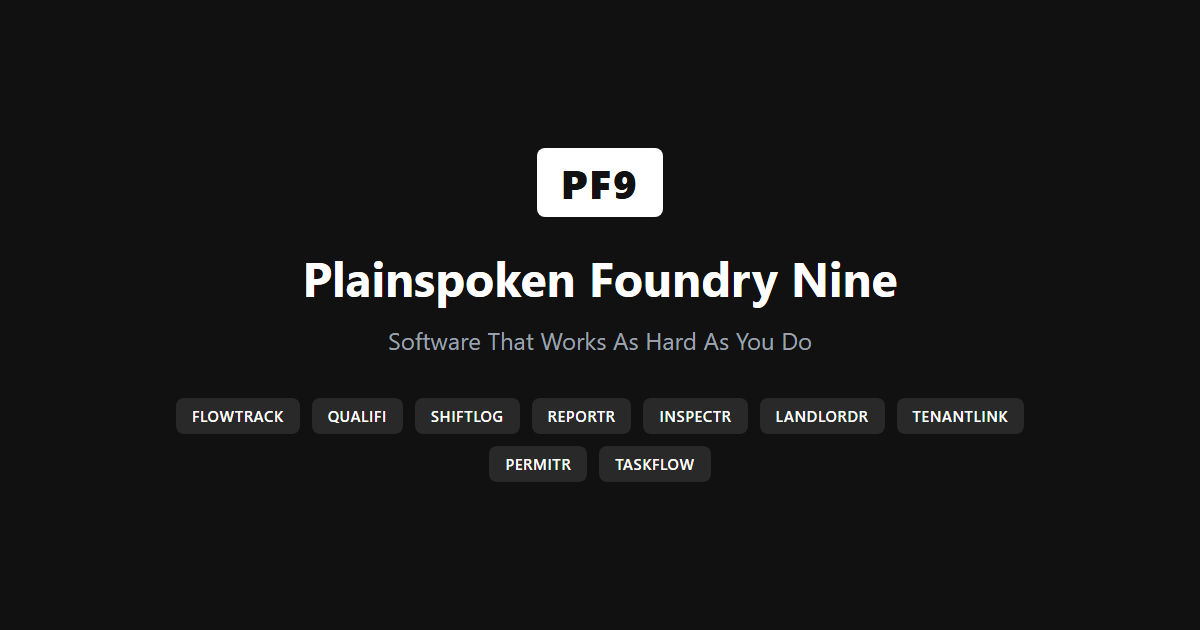
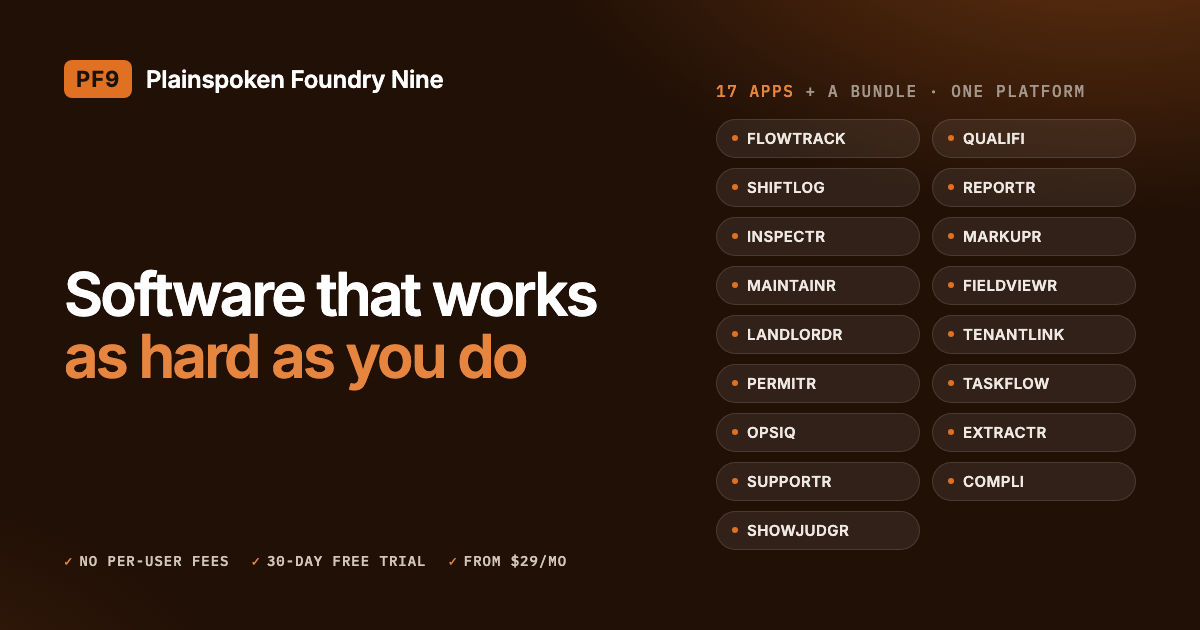
Link-share preview image: espresso/copper look, all 17 apps
og-image.png (what Slack, LinkedIn, Facebook, texts etc. show when the
store link is shared) was still the old black design listing 9 apps.
Rebuilt og-image.html in the store's brand — espresso with copper glow,
PF9 mark, the store's own headline and trust line, and all 17 apps — and
re-rendered og-image.png at 1200x630. Dropped the PostHog snippet from the
template (it is a screenshot source, not a page anyone visits).

og:image / twitter:image on all 32 tags now point at og-image.png?v=20261115
so link-preview caches fetch the new image; nothing else on those pages
changed (the JSON-LD logo URL is untouched). templates/ and store_api.py
untouched. tests/test_*.py all pass.

diff --git a/og-image.html b/og-image.html
@@ -1,92 +1,93 @@
-<!-- Screenshot this at 1200x630 to create og-image.png -->
+<!-- Screenshot this at 1200x630 to create og-image.png (the link-share preview).
+     2026-11-15: PF9 espresso/copper brand, all 17 apps. Wording is the store's own
+     headline and trust line from index.html — keep the app list in step with the store. -->
 <!DOCTYPE html>
 <html>
 <head>
 <meta charset="UTF-8">
+<link href="https://fonts.googleapis.com/css2?family=IBM+Plex+Mono:wght@500&family=Inter:wght@500;600;700&display=swap" rel="stylesheet">
 <style>
   * { margin: 0; padding: 0; box-sizing: border-box; }
   body {
     width: 1200px;
     height: 630px;
-    background: #111;
-    color: #fff;
-    font-family: system-ui, -apple-system, sans-serif;
-    display: flex;
-    align-items: center;
-    justify-content: center;
     overflow: hidden;
+    color: #fff;
+    font-family: Inter, system-ui, -apple-system, sans-serif;
+    background-color: #211006;
+    background-image:
+      radial-gradient(60rem 34rem at 92% -18%, rgba(224,113,34,.38), transparent 60%),
+      radial-gradient(40rem 26rem at -12% 118%, rgba(224,113,34,.16), transparent 60%);
+    display: grid;
+    grid-template-columns: 1fr 420px;
+    gap: 40px;
+    padding: 60px 64px;
   }
-  .container {
-    text-align: center;
-    padding: 2rem;
-  }
+  .left { display: flex; flex-direction: column; justify-content: space-between; }
+  .mark { display: flex; align-items: center; gap: 14px; }
   .badge {
-    display: inline-block;
-    background: #fff;
-    color: #111;
-    padding: 0.5rem 1.5rem;
-    border-radius: 8px;
-    font-weight: 800;
-    font-size: 2.5rem;
-    letter-spacing: 0.05em;
-    margin-bottom: 2rem;
+    background: #e07122; color: #1a120d;
+    font-weight: 700; font-size: 22px; letter-spacing: .04em;
+    padding: 6px 12px; border-radius: 8px;
   }
+  .name { font-size: 24px; font-weight: 600; letter-spacing: -.01em; }
   h1 {
-    font-size: 3rem;
-    font-weight: 700;
-    margin-bottom: 1rem;
-    line-height: 1.2;
+    font-size: 60px; font-weight: 600; line-height: 1.04; letter-spacing: -.045em; white-space: nowrap;
   }
-  p {
-    font-size: 1.5rem;
-    color: #9ca3af;
-    max-width: 800px;
-    margin: 0 auto 2.5rem;
-    line-height: 1.5;
+  h1 span { color: #e5853f; }
+  .trust {
+    font-family: "IBM Plex Mono", ui-monospace, monospace;
+    font-size: 14px; letter-spacing: .07em; text-transform: uppercase; color: #d1c6ba;
+    display: flex; gap: 22px; white-space: nowrap;
   }
-  .apps {
-    display: flex;
-    flex-wrap: wrap;
-    gap: 0.75rem;
-    justify-content: center;
-    max-width: 900px;
-    margin: 0 auto;
+  .trust b { color: #e5853f; font-weight: 500; margin-right: 6px; }
+  .right { display: flex; flex-direction: column; justify-content: center; }
+  .count {
+    font-family: "IBM Plex Mono", ui-monospace, monospace;
+    font-size: 16px; letter-spacing: .1em; text-transform: uppercase; color: #a3978b;
+    margin-bottom: 18px;
   }
+  .count b { color: #e5853f; font-weight: 500; }
+  .apps { display: grid; grid-template-columns: 1fr 1fr; gap: 10px 12px; }
   .app {
-    background: rgba(255,255,255,0.1);
-    padding: 0.5rem 1rem;
-    border-radius: 8px;
-    font-size: 0.95rem;
-    font-weight: 600;
-    letter-spacing: 0.03em;
+    background: rgba(255,255,255,.07);
+    border: 1px solid rgba(255,255,255,.12);
+    border-radius: 9999px;
+    padding: 9px 15px;
+    font-size: 15px; font-weight: 600; letter-spacing: .03em;
+    color: #efe9e3;
+    display: flex; align-items: center; gap: 9px;
   }
+  .app::before { content: ""; width: 6px; height: 6px; border-radius: 50%; background: #e07122; flex: none; }
 </style>
-    <!-- PostHog product analytics (mirrors GA4 events) -->
-    <script>
-    !function(t,e){var o,n,p,r;e.__SV||(window.posthog=e,e._i=[],e.init=function(i,s,a){function g(t,e){var o=e.split(".");2==o.length&&(t=t[o[0]],e=o[1]),t[e]=function(){t.push([e].concat(Array.prototype.slice.call(arguments,0)))}}(p=t.createElement("script")).type="text/javascript",p.crossOrigin="anonymous",p.async=!0,p.src=s.api_host.replace(".i.posthog.com","-assets.i.posthog.com")+"/static/array.js",(r=t.getElementsByTagName("script")[0]).parentNode.insertBefore(p,r);var u=e;for(void 0!==a?u=e[a]=[]:a="posthog",u.people=u.people||[],u.toString=function(t){var e="posthog";return"posthog"!==a&&(e+="."+a),t||(e+=" (stub)"),e},u.people.toString=function(){return u.toString(1)+".people (stub)"},o="init capture register register_once register_for_session unregister unregister_for_session getFeatureFlag getFeatureFlagPayload isFeatureEnabled reloadFeatureFlags updateEarlyAccessFeatureEnrollment getEarlyAccessFeatures on onFeatureFlags onSessionId getSurveys getActiveMatchingSurveys renderSurvey canRenderSurvey identify setPersonProperties group resetGroups setPersonPropertiesForFlags resetPersonPropertiesForFlags setGroupPropertiesForFlags resetGroupPropertiesForFlags reset get_distinct_id getGroups get_session_id get_session_replay_url alias set_config startSessionRecording stopSessionRecording sessionRecordingStarted captureException loadToolbar get_property getSessionProperty createPersonProfile opt_in_capturing opt_out_capturing has_opted_in_capturing has_opted_out_capturing clear_opt_in_out_capturing debug getPageViewId".split(" "),n=0;n<o.length;n++)g(u,o[n]);e._i.push([i,s,a])},e.__SV=1)}(document,window.posthog||[]);
-    posthog.init('phc_kqFGBkXKCodfJGJBFdZs3h9Qm43AQaqnyCiETDAwzgmw',{api_host:'https://us.i.posthog.com',defaults:'2025-05-24'});
-    </script>
-    <!-- Mirror every GA4 gtag('event', name, params) into PostHog automatically -->
-    <script>
-    (function(){var _g=window.gtag;window.gtag=function(){try{if(arguments[0]==='event'&&window.posthog&&posthog.capture){posthog.capture(arguments[1],arguments[2]||{});}}catch(e){}if(typeof _g==='function'){return _g.apply(this,arguments);}};})();
-    </script>
 </head>
 <body>
-<div class="container">
-  <div class="badge">PF9</div>
-  <h1>Plainspoken Foundry Nine</h1>
-  <p>Software That Works As Hard As You Do</p>
-  <div class="apps">
-    <span class="app">FLOWTRACK</span>
-    <span class="app">QUALIFI</span>
-    <span class="app">SHIFTLOG</span>
-    <span class="app">REPORTR</span>
-    <span class="app">INSPECTR</span>
-    <span class="app">LANDLORDR</span>
-    <span class="app">TENANTLINK</span>
-    <span class="app">PERMITR</span>
-    <span class="app">TASKFLOW</span>
+  <div class="left">
+    <div class="mark"><span class="badge">PF9</span><span class="name">Plainspoken Foundry Nine</span></div>
+    <h1>Software that works<br><span>as hard as you do</span></h1>
+    <div class="trust"><span><b>✓</b>No per-user fees</span><span><b>✓</b>30-day free trial</span><span><b>✓</b>From $29/mo</span></div>
   </div>
-</div>
+  <div class="right">
+    <div class="count"><b>17 apps</b> + a bundle · one platform</div>
+    <div class="apps">
+      <span class="app">FLOWTRACK</span>
+      <span class="app">QUALIFI</span>
+      <span class="app">SHIFTLOG</span>
+      <span class="app">REPORTR</span>
+      <span class="app">INSPECTR</span>
+      <span class="app">MARKUPR</span>
+      <span class="app">MAINTAINR</span>
+      <span class="app">FIELDVIEWR</span>
+      <span class="app">LANDLORDR</span>
+      <span class="app">TENANTLINK</span>
+      <span class="app">PERMITR</span>
+      <span class="app">TASKFLOW</span>
+      <span class="app">OPSIQ</span>
+      <span class="app">EXTRACTR</span>
+      <span class="app">SUPPORTR</span>
+      <span class="app">COMPLI</span>
+      <span class="app">SHOWJUDGR</span>
+    </div>
+  </div>
 </body>
 </html>

diff --git a/comparisons/buildium-vs-pf9.html b/comparisons/buildium-vs-pf9.html
@@ -12,11 +12,11 @@
     <meta property="og:title" content="Buildium Alternative — PF9 Property Suite vs Buildium">
     <meta property="og:description" content="Flat $89/mo for unlimited units vs Buildium's per-unit pricing. Honest comparison for landlords with 5–50 units.">
     <meta property="og:site_name" content="Plainspoken Foundry Nine">
-    <meta property="og:image" content="https://store.plainspokenfoundrynine.com/og-image.png">
+    <meta property="og:image" content="https://store.plainspokenfoundrynine.com/og-image.png?v=20261115">
     <meta name="twitter:card" content="summary_large_image">
     <meta name="twitter:title" content="Buildium vs PF9 — Pricing & Features Compared">
     <meta name="twitter:description" content="Flat-rate property software vs per-unit fees. Honest comparison.">
-    <meta name="twitter:image" content="https://store.plainspokenfoundrynine.com/og-image.png">
+    <meta name="twitter:image" content="https://store.plainspokenfoundrynine.com/og-image.png?v=20261115">
     <link rel="icon" href="/favicon.svg" type="image/svg+xml">
     <script async src="https://www.googletagmanager.com/gtag/js?id=G-RWJKZXGNPF"></script>
     <script>window.dataLayer=window.dataLayer||[];function gtag(){dataLayer.push(arguments)}gtag('js',new Date());gtag('config','G-RWJKZXGNPF');</script>

diff --git a/for-manufacturers.html b/for-manufacturers.html
@@ -13,11 +13,11 @@
     <meta property="og:title" content="Manufacturing Software Without Per-Seat Fees — Plainspoken Foundry Nine">
     <meta property="og:description" content="Flat monthly pricing for manufacturing. No per-user fees. Five apps (inventory, quality, shifts, reports, inspections) from $29/mo each, $225/mo for all five — unlimited users.">
     <meta property="og:site_name" content="Plainspoken Foundry Nine">
-    <meta property="og:image" content="https://store.plainspokenfoundrynine.com/og-image.png">
+    <meta property="og:image" content="https://store.plainspokenfoundrynine.com/og-image.png?v=20261115">
     <meta name="twitter:card" content="summary_large_image">
     <meta name="twitter:title" content="Manufacturing Software Without Per-Seat Fees">
     <meta name="twitter:description" content="Flat-rate manufacturing software. 5 apps. Unlimited users. From $29/mo per app.">
-    <meta name="twitter:image" content="https://store.plainspokenfoundrynine.com/og-image.png">
+    <meta name="twitter:image" content="https://store.plainspokenfoundrynine.com/og-image.png?v=20261115">
     <link rel="icon" href="/favicon.svg" type="image/svg+xml">
     <!-- Google Analytics 4 -->
     <script async src="https://www.googletagmanager.com/gtag/js?id=G-RWJKZXGNPF"></script>

diff --git a/index.html b/index.html
@@ -13,11 +13,11 @@
     <meta property="og:title" content="Plainspoken Foundry Nine — Software That Works As Hard As You Do">
     <meta property="og:description" content="17 practical apps for manufacturing, property management, and operations teams. Try free demos or subscribe from $29/mo.">
     <meta property="og:site_name" content="Plainspoken Foundry Nine">
-    <meta property="og:image" content="https://store.plainspokenfoundrynine.com/og-image.png">
+    <meta property="og:image" content="https://store.plainspokenfoundrynine.com/og-image.png?v=20261115">
     <meta name="twitter:card" content="summary_large_image">
     <meta name="twitter:title" content="Plainspoken Foundry Nine — Software That Works As Hard As You Do">
     <meta name="twitter:description" content="17 practical apps for manufacturing, property management, and operations teams. From $29/mo.">
-    <meta name="twitter:image" content="https://store.plainspokenfoundrynine.com/og-image.png">
+    <meta name="twitter:image" content="https://store.plainspokenfoundrynine.com/og-image.png?v=20261115">
     <link rel="icon" href="/favicon.svg" type="image/svg+xml">
     <!-- Google Analytics 4 -->
     <script async src="https://www.googletagmanager.com/gtag/js?id=G-RWJKZXGNPF"></script>

diff --git a/tools/per-user-calculator.html b/tools/per-user-calculator.html
@@ -12,11 +12,11 @@
     <meta property="og:title" content="Per-User Pricing Calculator — How much is per-seat pricing actually costing you?">
     <meta property="og:description" content="Drag a slider, see your real monthly cost across MRPeasy, Katana, Fishbowl, and PF9 flat pricing. Free, no signup.">
     <meta property="og:site_name" content="Plainspoken Foundry Nine">
-    <meta property="og:image" content="https://store.plainspokenfoundrynine.com/og-image.png">
+    <meta property="og:image" content="https://store.plainspokenfoundrynine.com/og-image.png?v=20261115">
     <meta name="twitter:card" content="summary_large_image">
     <meta name="twitter:title" content="Per-User Pricing Calculator — MRPeasy vs Katana vs Fishbowl">
     <meta name="twitter:description" content="Find out what per-user manufacturing software actually costs you each month.">
-    <meta name="twitter:image" content="https://store.plainspokenfoundrynine.com/og-image.png">
+    <meta name="twitter:image" content="https://store.plainspokenfoundrynine.com/og-image.png?v=20261115">
     <link rel="icon" href="/favicon.svg" type="image/svg+xml">
     <!-- Google Analytics 4 -->
     <script async src="https://www.googletagmanager.com/gtag/js?id=G-RWJKZXGNPF"></script>

diff --git a/tools/per-door-calculator.html b/tools/per-door-calculator.html
@@ -12,11 +12,11 @@
     <meta property="og:title" content="Per-Door Pricing Calculator — How much is per-unit pricing actually costing you?">
     <meta property="og:description" content="Drag a slider, see your real monthly cost across Buildium, AppFolio, DoorLoop, and PF9 flat pricing. Free, no signup.">
     <meta property="og:site_name" content="Plainspoken Foundry Nine">
-    <meta property="og:image" content="https://store.plainspokenfoundrynine.com/og-image.png">
+    <meta property="og:image" content="https://store.plainspokenfoundrynine.com/og-image.png?v=20261115">
     <meta name="twitter:card" content="summary_large_image">
     <meta name="twitter:title" content="Per-Door Pricing Calculator — Buildium vs AppFolio vs DoorLoop">
     <meta name="twitter:description" content="Find out what per-unit pricing actually costs you each month.">
-    <meta name="twitter:image" content="https://store.plainspokenfoundrynine.com/og-image.png">
+    <meta name="twitter:image" content="https://store.plainspokenfoundrynine.com/og-image.png?v=20261115">
     <link rel="icon" href="/favicon.svg" type="image/svg+xml">
     <!-- Google Analytics 4 -->
     <script async src="https://www.googletagmanager.com/gtag/js?id=G-RWJKZXGNPF"></script>

diff --git a/for-landlords.html b/for-landlords.html
@@ -13,11 +13,11 @@
     <meta property="og:title" content="Landlord Software Without Per-Door Fees — Plainspoken Foundry Nine">
     <meta property="og:description" content="Flat monthly pricing for property management. No per-unit fees. Complete landlord + tenant portal suite from $89/mo, unlimited units.">
     <meta property="og:site_name" content="Plainspoken Foundry Nine">
-    <meta property="og:image" content="https://store.plainspokenfoundrynine.com/og-image.png">
+    <meta property="og:image" content="https://store.plainspokenfoundrynine.com/og-image.png?v=20261115">
     <meta name="twitter:card" content="summary_large_image">
     <meta name="twitter:title" content="Landlord Software Without Per-Door Fees">
     <meta name="twitter:description" content="Flat pricing property management. Unlimited units. From $89/mo.">
-    <meta name="twitter:image" content="https://store.plainspokenfoundrynine.com/og-image.png">
+    <meta name="twitter:image" content="https://store.plainspokenfoundrynine.com/og-image.png?v=20261115">
     <link rel="icon" href="/favicon.svg" type="image/svg+xml">
     <!-- Google Analytics 4 -->
     <script async src="https://www.googletagmanager.com/gtag/js?id=G-RWJKZXGNPF"></script>

diff --git a/3d-printing.html b/3d-printing.html
@@ -13,11 +13,11 @@
     <meta property="og:title" content="Custom 3D Printing & Product Design — Plainspoken Foundry Nine">
     <meta property="og:description" content="Custom 3D printing, CAD design, prototyping, and small-batch production. FDM in PETG and PLA. Pricing by quote.">
     <meta property="og:site_name" content="Plainspoken Foundry Nine">
-    <meta property="og:image" content="https://store.plainspokenfoundrynine.com/og-image.png">
+    <meta property="og:image" content="https://store.plainspokenfoundrynine.com/og-image.png?v=20261115">
     <meta name="twitter:card" content="summary_large_image">
     <meta name="twitter:title" content="Custom 3D Printing & Product Design">
     <meta name="twitter:description" content="Custom 3D printing, CAD design, prototyping, and small-batch production. Pricing by quote.">
-    <meta name="twitter:image" content="https://store.plainspokenfoundrynine.com/og-image.png">
+    <meta name="twitter:image" content="https://store.plainspokenfoundrynine.com/og-image.png?v=20261115">
     <link rel="icon" href="/favicon.svg" type="image/svg+xml">
     <!-- Google Analytics 4 -->
     <script async src="https://www.googletagmanager.com/gtag/js?id=G-RWJKZXGNPF"></script>

diff --git a/glossary/index.html b/glossary/index.html
@@ -11,7 +11,7 @@
     <meta property="og:url" content="https://store.plainspokenfoundrynine.com/glossary/">
     <meta property="og:title" content="PF9 Software Glossary — Plain-English Definitions">
     <meta property="og:description" content="Definitions and decision guides for property and manufacturing software-buying terms.">
-    <meta property="og:image" content="https://store.plainspokenfoundrynine.com/og-image.png">
+    <meta property="og:image" content="https://store.plainspokenfoundrynine.com/og-image.png?v=20261115">
     <link rel="icon" href="/favicon.svg" type="image/svg+xml">
     <script async src="https://www.googletagmanager.com/gtag/js?id=G-RWJKZXGNPF"></script>
     <script>window.dataLayer=window.dataLayer||[];function gtag(){dataLayer.push(arguments)}gtag('js',new Date());gtag('config','G-RWJKZXGNPF');</script>

diff --git a/glossary/mes-vs-erp.html b/glossary/mes-vs-erp.html
@@ -11,7 +11,7 @@
     <meta property="og:url" content="https://store.plainspokenfoundrynine.com/glossary/mes-vs-erp.html">
     <meta property="og:title" content="MES vs ERP — Plain-English Difference">
     <meta property="og:description" content="What each one is, what they overlap on, and which one a 50-person shop needs.">
-    <meta property="og:image" content="https://store.plainspokenfoundrynine.com/og-image.png">
+    <meta property="og:image" content="https://store.plainspokenfoundrynine.com/og-image.png?v=20261115">
     <link rel="icon" href="/favicon.svg" type="image/svg+xml">
     <script async src="https://www.googletagmanager.com/gtag/js?id=G-RWJKZXGNPF"></script>
     <script>window.dataLayer=window.dataLayer||[];function gtag(){dataLayer.push(arguments)}gtag('js',new Date());gtag('config','G-RWJKZXGNPF');</script>

diff --git a/glossary/mrp-vs-erp.html b/glossary/mrp-vs-erp.html
@@ -10,7 +10,7 @@
     <meta property="og:type" content="article">
     <meta property="og:title" content="MRP vs ERP — Plain-English Difference">
     <meta property="og:description" content="What MRP covers, what ERP covers, and which a 20–250 employee manufacturer actually needs.">
-    <meta property="og:image" content="https://store.plainspokenfoundrynine.com/og-image.png">
+    <meta property="og:image" content="https://store.plainspokenfoundrynine.com/og-image.png?v=20261115">
     <link rel="icon" href="/favicon.svg" type="image/svg+xml">
     <script async src="https://www.googletagmanager.com/gtag/js?id=G-RWJKZXGNPF"></script>
     <script>window.dataLayer=window.dataLayer||[];function gtag(){dataLayer.push(arguments)}gtag('js',new Date());gtag('config','G-RWJKZXGNPF');</script>

diff --git a/glossary/property-management-software-pricing-models.html b/glossary/property-management-software-pricing-models.html
@@ -10,7 +10,7 @@
     <meta property="og:type" content="article">
     <meta property="og:title" content="Property Management Software Pricing Models">
     <meta property="og:description" content="Per-unit, minimum-spend, per-user, flat-rate. Decision guide with the math.">
-    <meta property="og:image" content="https://store.plainspokenfoundrynine.com/og-image.png">
+    <meta property="og:image" content="https://store.plainspokenfoundrynine.com/og-image.png?v=20261115">
     <link rel="icon" href="/favicon.svg" type="image/svg+xml">
     <script async src="https://www.googletagmanager.com/gtag/js?id=G-RWJKZXGNPF"></script>
     <script>window.dataLayer=window.dataLayer||[];function gtag(){dataLayer.push(arguments)}gtag('js',new Date());gtag('config','G-RWJKZXGNPF');</script>
